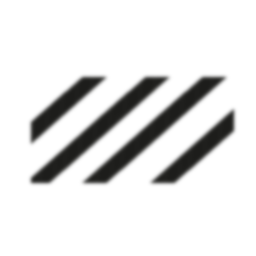
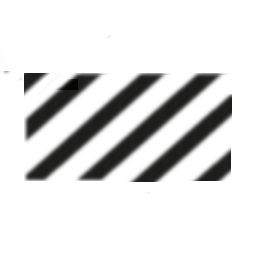
Update layout and control information

Changed region(s): [[0.0938, 0.2812, 0.9375, 0.75], [0.0938, 0.2812, 0.4375, 0.5625], [0.0938, 0.2812, 0.1875, 0.375]]

diff --git a/CS/Scripts/Ribbon.cs b/CS/Scripts/Ribbon.cs
@@ -22,24 +22,28 @@ namespace Markup.Scripts
         /// </summary>
         public static Ribbon ribbonref;
 
-        /// <summary>
-        /// Settings TaskPane
-        /// </summary>
-        public TaskPane.Settings mySettings;
+		#region | Task Panes |
+
+		/// <summary>
+		/// Settings TaskPane
+		/// </summary>
+		public TaskPane.Settings mySettings;
 
         /// <summary>
         /// Settings Custom Task Pane
         /// </summary>
         public Microsoft.Office.Tools.CustomTaskPane myTaskPaneSettings;
 
-        /// <summary> 
-        /// The Clouds ribbon
-        /// </summary>
-        public Ribbon()
+		#endregion
+
+        #region | Ribbon Events |
+
+		/// <summary> 
+		/// The Clouds ribbon
+		/// </summary>
+		public Ribbon()
         {
         }
-
-        #region | IRibbonExtensibility Members |
 
         /// <summary> 
         /// Loads the XML markup, either from an XML customization file or from XML markup embedded in the procedure, that customizes the Ribbon user interface.
@@ -52,11 +56,12 @@ namespace Markup.Scripts
             return GetResourceText("Markup.Ribbon.xml");
         }
 
-        #endregion
-
-        #region | Helpers |
-
-        private static string GetResourceText(string resourceName)
+		/// <summary>
+		/// Called by the GetCustomUI method to obtain the contents of the Ribbon XML file.
+		/// </summary>
+		/// <param name="resourceName">name of  the XML file</param>
+		/// <returns>the contents of the XML file</returns>
+		private static string GetResourceText(string resourceName)
         {
             Assembly asm = Assembly.GetExecutingAssembly();
             string[] resourceNames = asm.GetManifestResourceNames();
@@ -75,10 +80,6 @@ namespace Markup.Scripts
             }
             return null;
         }
-
-        #endregion
-
-        #region | Ribbon Events |
 
         /// <summary> 
         /// loads the ribbon UI and creates a log record
@@ -115,10 +116,11 @@ namespace Markup.Scripts
             {
                 switch (control.Id)
                 {
-                    case "grpMarkups":
-                    case "btnRev":
+                    case "grpRevision":
+					case "btnRev":
                         return Properties.Resources.RevTri;
-                    case "btnCloudAll":
+					case "grpMarkups":
+					case "btnCloudAll":
                         return Properties.Resources.Cloud;
                     case "btnCloudHold":
                         return Properties.Resources.CloudHold;
@@ -175,7 +177,9 @@ namespace Markup.Scripts
                     case "txtReleaseDate":
                         DateTime dteCreateDate = Properties.Settings.Default.App_ReleaseDate;
                         return dteCreateDate.ToString("dd-MMM-yyyy hh:mm tt");
-                    default:
+					case "txtRevisionCharacter":
+						return Properties.Settings.Default.Markup_TriangleRevisionCharacter;
+					default:
                         return string.Empty;
                 }
             }
@@ -324,7 +328,10 @@ namespace Markup.Scripts
                     case "btnSelectColor":
                         SelectLineColor();
                         break;
-                    case "btnRev":
+					case "btnUpdateColor":
+						UpdateLineColor();
+						break;
+					case "btnRev":
                         CreateRevisionTriangle();
                         break;
                     case "btnCloudAll":
@@ -421,15 +428,40 @@ namespace Markup.Scripts
 
         }
 
-        #endregion
+		/// <summary>
+		/// Preforms an action based on the text change of the control
+		/// </summary>
+		/// <param name="control">Represents the object passed into the callback procedure of a control in a ribbon or another user interface that can be customized by using Office Fluent ribbon extensibility.</param>
+		/// <param name="text">Represents the text identifier of the control</param>
+		public void OnChange(Office.IRibbonControl control, ref string text)
+		{
+			try
+			{
+				switch (control.Id)
+				{
+					case "txtRevisionCharacter":
+						{
+							Properties.Settings.Default.Markup_TriangleRevisionCharacter = text;
+							break;
+						}
+				}
+			}
 
-        #region | Ribbon Buttons |
+			catch (Exception ex)
+			{
+				ErrorHandler.DisplayMessage(ex);
+			}
+		}
 
-        /// <summary> 
-        /// Creates a revision triangle and prompts the user for text value(s)
-        /// </summary>
-        /// <remarks></remarks>
-        public void CreateRevisionTriangle()
+		#endregion
+
+		#region | Ribbon Buttons |
+
+		/// <summary> 
+		/// Creates a revision triangle and prompts the user for text value(s)
+		/// </summary>
+		/// <remarks></remarks>
+		public void CreateRevisionTriangle()
         {
             Excel.Shape shpTriangle = null;
             Excel.Shape txtTriangle = null;
@@ -474,12 +506,7 @@ namespace Markup.Scripts
                 shpTriangle.Line.Weight = Convert.ToSingle(1.5);
                 txtTriangle = Globals.ThisAddIn.Application.ActiveSheet.Shapes.AddTextbox(Microsoft.Office.Core.MsoTextOrientation.msoTextOrientationHorizontal, Convert.ToSingle(x), Convert.ToSingle(y + h * 0.2), Convert.ToSingle(w), Convert.ToSingle(h * 0.8));
                 txtTriangle.Select();
-                string revChar = Properties.Settings.Default.Markup_RevisionTriangleCharacter;
-                if (DialogBox.InputBox("Please enter a revision character", "Revision Triangle", ref revChar) == DialogResult.OK)
-                {
-                    Properties.Settings.Default.Markup_RevisionTriangleCharacter = revChar;
-                }
-                txtTriangle.TextEffect.Text = revChar;
+                txtTriangle.TextEffect.Text = Properties.Settings.Default.Markup_TriangleRevisionCharacter;
                 Globals.ThisAddIn.Application.Selection.Font.Color = Properties.Settings.Default.Markup_ShapeLineColor;
                 Globals.ThisAddIn.Application.Selection.Font.Size = f;
                 Globals.ThisAddIn.Application.Selection.Border.LineStyle = Excel.Constants.xlNone;
@@ -823,21 +850,21 @@ namespace Markup.Scripts
 
         }
 
-        #endregion
+		#endregion
 
-        #region | Subroutines |
+		#region | Subroutines |
 
-        /// <summary> 
-        /// Creates an arc based on user selection
-        /// </summary>
-        /// <param name="x1">X Axis 1 </param>
-        /// <param name="y1">Y Axis 1 </param>
-        /// <param name="x2">X Axis 2 </param>
-        /// <param name="y2">Y Axis 2 </param>
-        /// <param name="length">description here... </param>
-        /// <returns>A method that creates an arc shape between 2 sets for coordinates </returns> 
-        /// <remarks></remarks>
-        public Excel.Shape CreateArc(double x1, double y1, double x2, double y2, double length)
+		/// <summary> 
+		/// Creates an arc based on user selection
+		/// </summary>
+		/// <param name="x1">X Axis 1 </param>
+		/// <param name="y1">Y Axis 1 </param>
+		/// <param name="x2">X Axis 2 </param>
+		/// <param name="y2">Y Axis 2 </param>
+		/// <param name="length">description here... </param>
+		/// <returns>A method that creates an arc shape between 2 sets for coordinates </returns> 
+		/// <remarks></remarks>
+		public Excel.Shape CreateArc(double x1, double y1, double x2, double y2, double length)
         {
             Excel.Shape cloudArc = null;
             try
@@ -900,7 +927,7 @@ namespace Markup.Scripts
             Excel.ShapeRange shapeRange = null;
             try
             {
-                double length = 25;
+                double length = Properties.Settings.Default.Markup_ShapeLineSpacing;
                 int i = 0;
                 double x = 0;
                 double y = 0;
@@ -1029,13 +1056,14 @@ namespace Markup.Scripts
         public Excel.Shape CreateHatchArea(double x, double y, double h, double w)
         {
             string shapeName = "AreaHatch";
-            double xx1 = 0;
+			double length = Properties.Settings.Default.Markup_ShapeLineSpacing;
+			double xx1 = 0;
             double yy1 = 0;
             double xx2 = 0;
             double yy2 = 0;
             double x1 = x + y;
-            double x2 = Math.Floor(x1 / 20);
-            double x3 = (x2 + 1) * 20;
+            double x2 = Math.Floor(x1 / length);
+            double x3 = (x2 + 1) * length;
             double xDiff = x3 - x1;
             double xl = x;
             double xr = x + w;
@@ -1085,7 +1113,7 @@ namespace Markup.Scripts
                         hatchLine1.Name = shapeName + AddSpaces(1) + DateTime.Now.ToString(Properties.Settings.Default.Markup_ShapeDateFormat);
                         shapesList.Add(hatchLine1.Name);
                         SetLineColor();
-                        xsp = xsp + 20;
+                        xsp = xsp + length;
                     }
                 }
                 else
@@ -1121,7 +1149,7 @@ namespace Markup.Scripts
                         hatchLine2.Name = shapeName + AddSpaces(1) + DateTime.Now.ToString(Properties.Settings.Default.Markup_ShapeDateFormat);
                         shapesList.Add(hatchLine2.Name);
                         SetLineColor();
-                        ysp = ysp + 20;
+                        ysp = ysp + length;
                     }
                 }
                 object[] shapes = shapesList.ToArray();
@@ -1230,6 +1258,29 @@ namespace Markup.Scripts
         {
             ribbon.Invalidate();
         }
+
+		/// <summary>
+		/// Update the line color of selected shapes
+		/// </summary>
+		public void UpdateLineColor()
+		{
+			try
+			{
+				if (ErrorHandler.IsActiveSelection() == false)
+				{
+					SetLineColor();
+
+					//if triangle use these lines
+					//Globals.ThisAddIn.Application.Selection.Font.Color = Properties.Settings.Default.Markup_ShapeLineColor;
+					//Globals.ThisAddIn.Application.Selection.Interior.Pattern = Excel.XlPattern.xlPatternNone;
+				}
+			}
+			catch (Exception ex)
+			{
+				ErrorHandler.DisplayMessage(ex);
+
+			}
+		}
 
         #endregion
 

diff --git a/CS/Properties/Settings.Designer.cs b/CS/Properties/Settings.Designer.cs
@@ -12,7 +12,7 @@ namespace Markup.Properties {
     
     
     [global::System.Runtime.CompilerServices.CompilerGeneratedAttribute()]
-    [global::System.CodeDom.Compiler.GeneratedCodeAttribute("Microsoft.VisualStudio.Editors.SettingsDesigner.SettingsSingleFileGenerator", "14.0.0.0")]
+    [global::System.CodeDom.Compiler.GeneratedCodeAttribute("Microsoft.VisualStudio.Editors.SettingsDesigner.SettingsSingleFileGenerator", "15.7.0.0")]
     internal sealed partial class Settings : global::System.Configuration.ApplicationSettingsBase {
         
         private static Settings defaultInstance = ((Settings)(global::System.Configuration.ApplicationSettingsBase.Synchronized(new Settings())));
@@ -47,12 +47,12 @@ namespace Markup.Properties {
         [global::System.Configuration.UserScopedSettingAttribute()]
         [global::System.Diagnostics.DebuggerNonUserCodeAttribute()]
         [global::System.Configuration.DefaultSettingValueAttribute("A")]
-        public string Markup_RevisionTriangleCharacter {
+        public string Markup_TriangleRevisionCharacter {
             get {
-                return ((string)(this["Markup_RevisionTriangleCharacter"]));
+                return ((string)(this["Markup_TriangleRevisionCharacter"]));
             }
             set {
-                this["Markup_RevisionTriangleCharacter"] = value;
+                this["Markup_TriangleRevisionCharacter"] = value;
             }
         }
         
@@ -91,7 +91,7 @@ namespace Markup.Properties {
         
         [global::System.Configuration.UserScopedSettingAttribute()]
         [global::System.Diagnostics.DebuggerNonUserCodeAttribute()]
-        [global::System.Configuration.DefaultSettingValueAttribute("https://github.com/Office-projects/")]
+        [global::System.Configuration.DefaultSettingValueAttribute("https://github.com/Office-projects/Excel-Markup/blob/master/README.md")]
         public string App_PathReadMe {
             get {
                 return ((string)(this["App_PathReadMe"]));
@@ -103,7 +103,7 @@ namespace Markup.Properties {
         
         [global::System.Configuration.UserScopedSettingAttribute()]
         [global::System.Diagnostics.DebuggerNonUserCodeAttribute()]
-        [global::System.Configuration.DefaultSettingValueAttribute("https://github.com/Office-projects/")]
+        [global::System.Configuration.DefaultSettingValueAttribute("https://github.com/Office-projects/Excel-Markup/issues/new")]
         public string App_PathNewIssue {
             get {
                 return ((string)(this["App_PathNewIssue"]));
@@ -122,6 +122,18 @@ namespace Markup.Properties {
             }
             set {
                 this["App_ReleaseDate"] = value;
+            }
+        }
+        
+        [global::System.Configuration.UserScopedSettingAttribute()]
+        [global::System.Diagnostics.DebuggerNonUserCodeAttribute()]
+        [global::System.Configuration.DefaultSettingValueAttribute("10")]
+        public double Markup_ShapeLineSpacing {
+            get {
+                return ((double)(this["Markup_ShapeLineSpacing"]));
+            }
+            set {
+                this["Markup_ShapeLineSpacing"] = value;
             }
         }
     }
